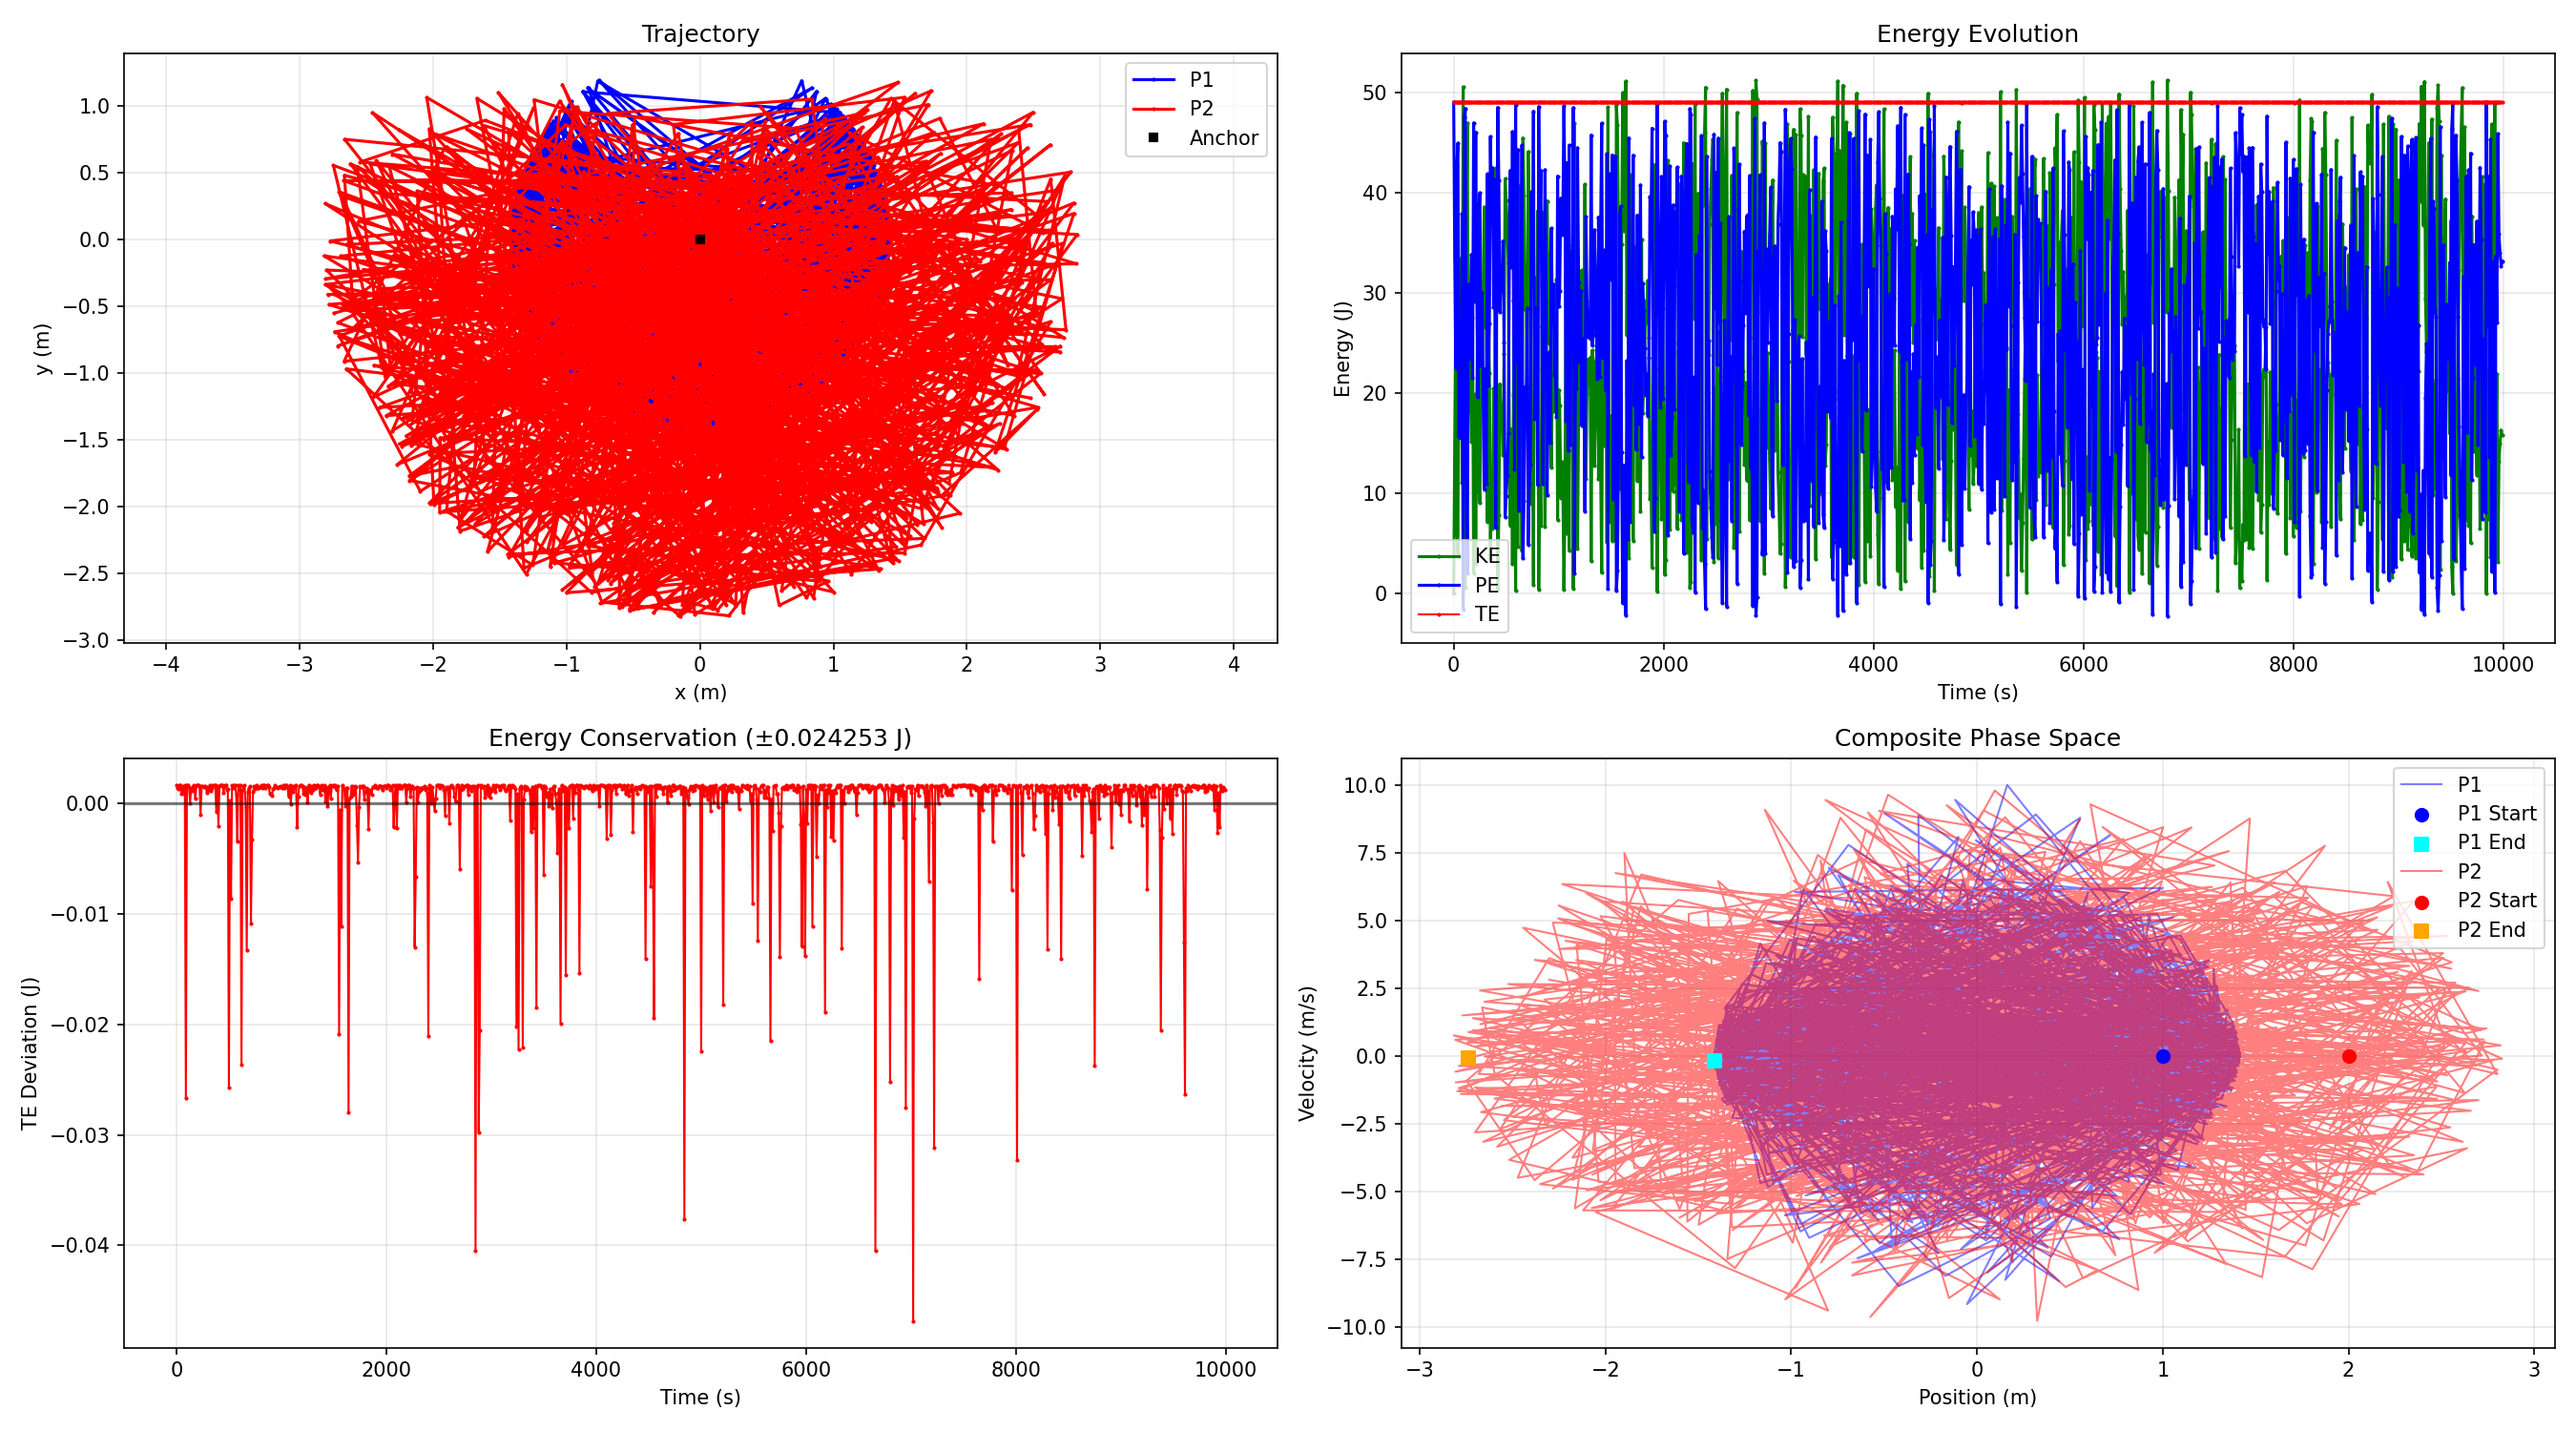
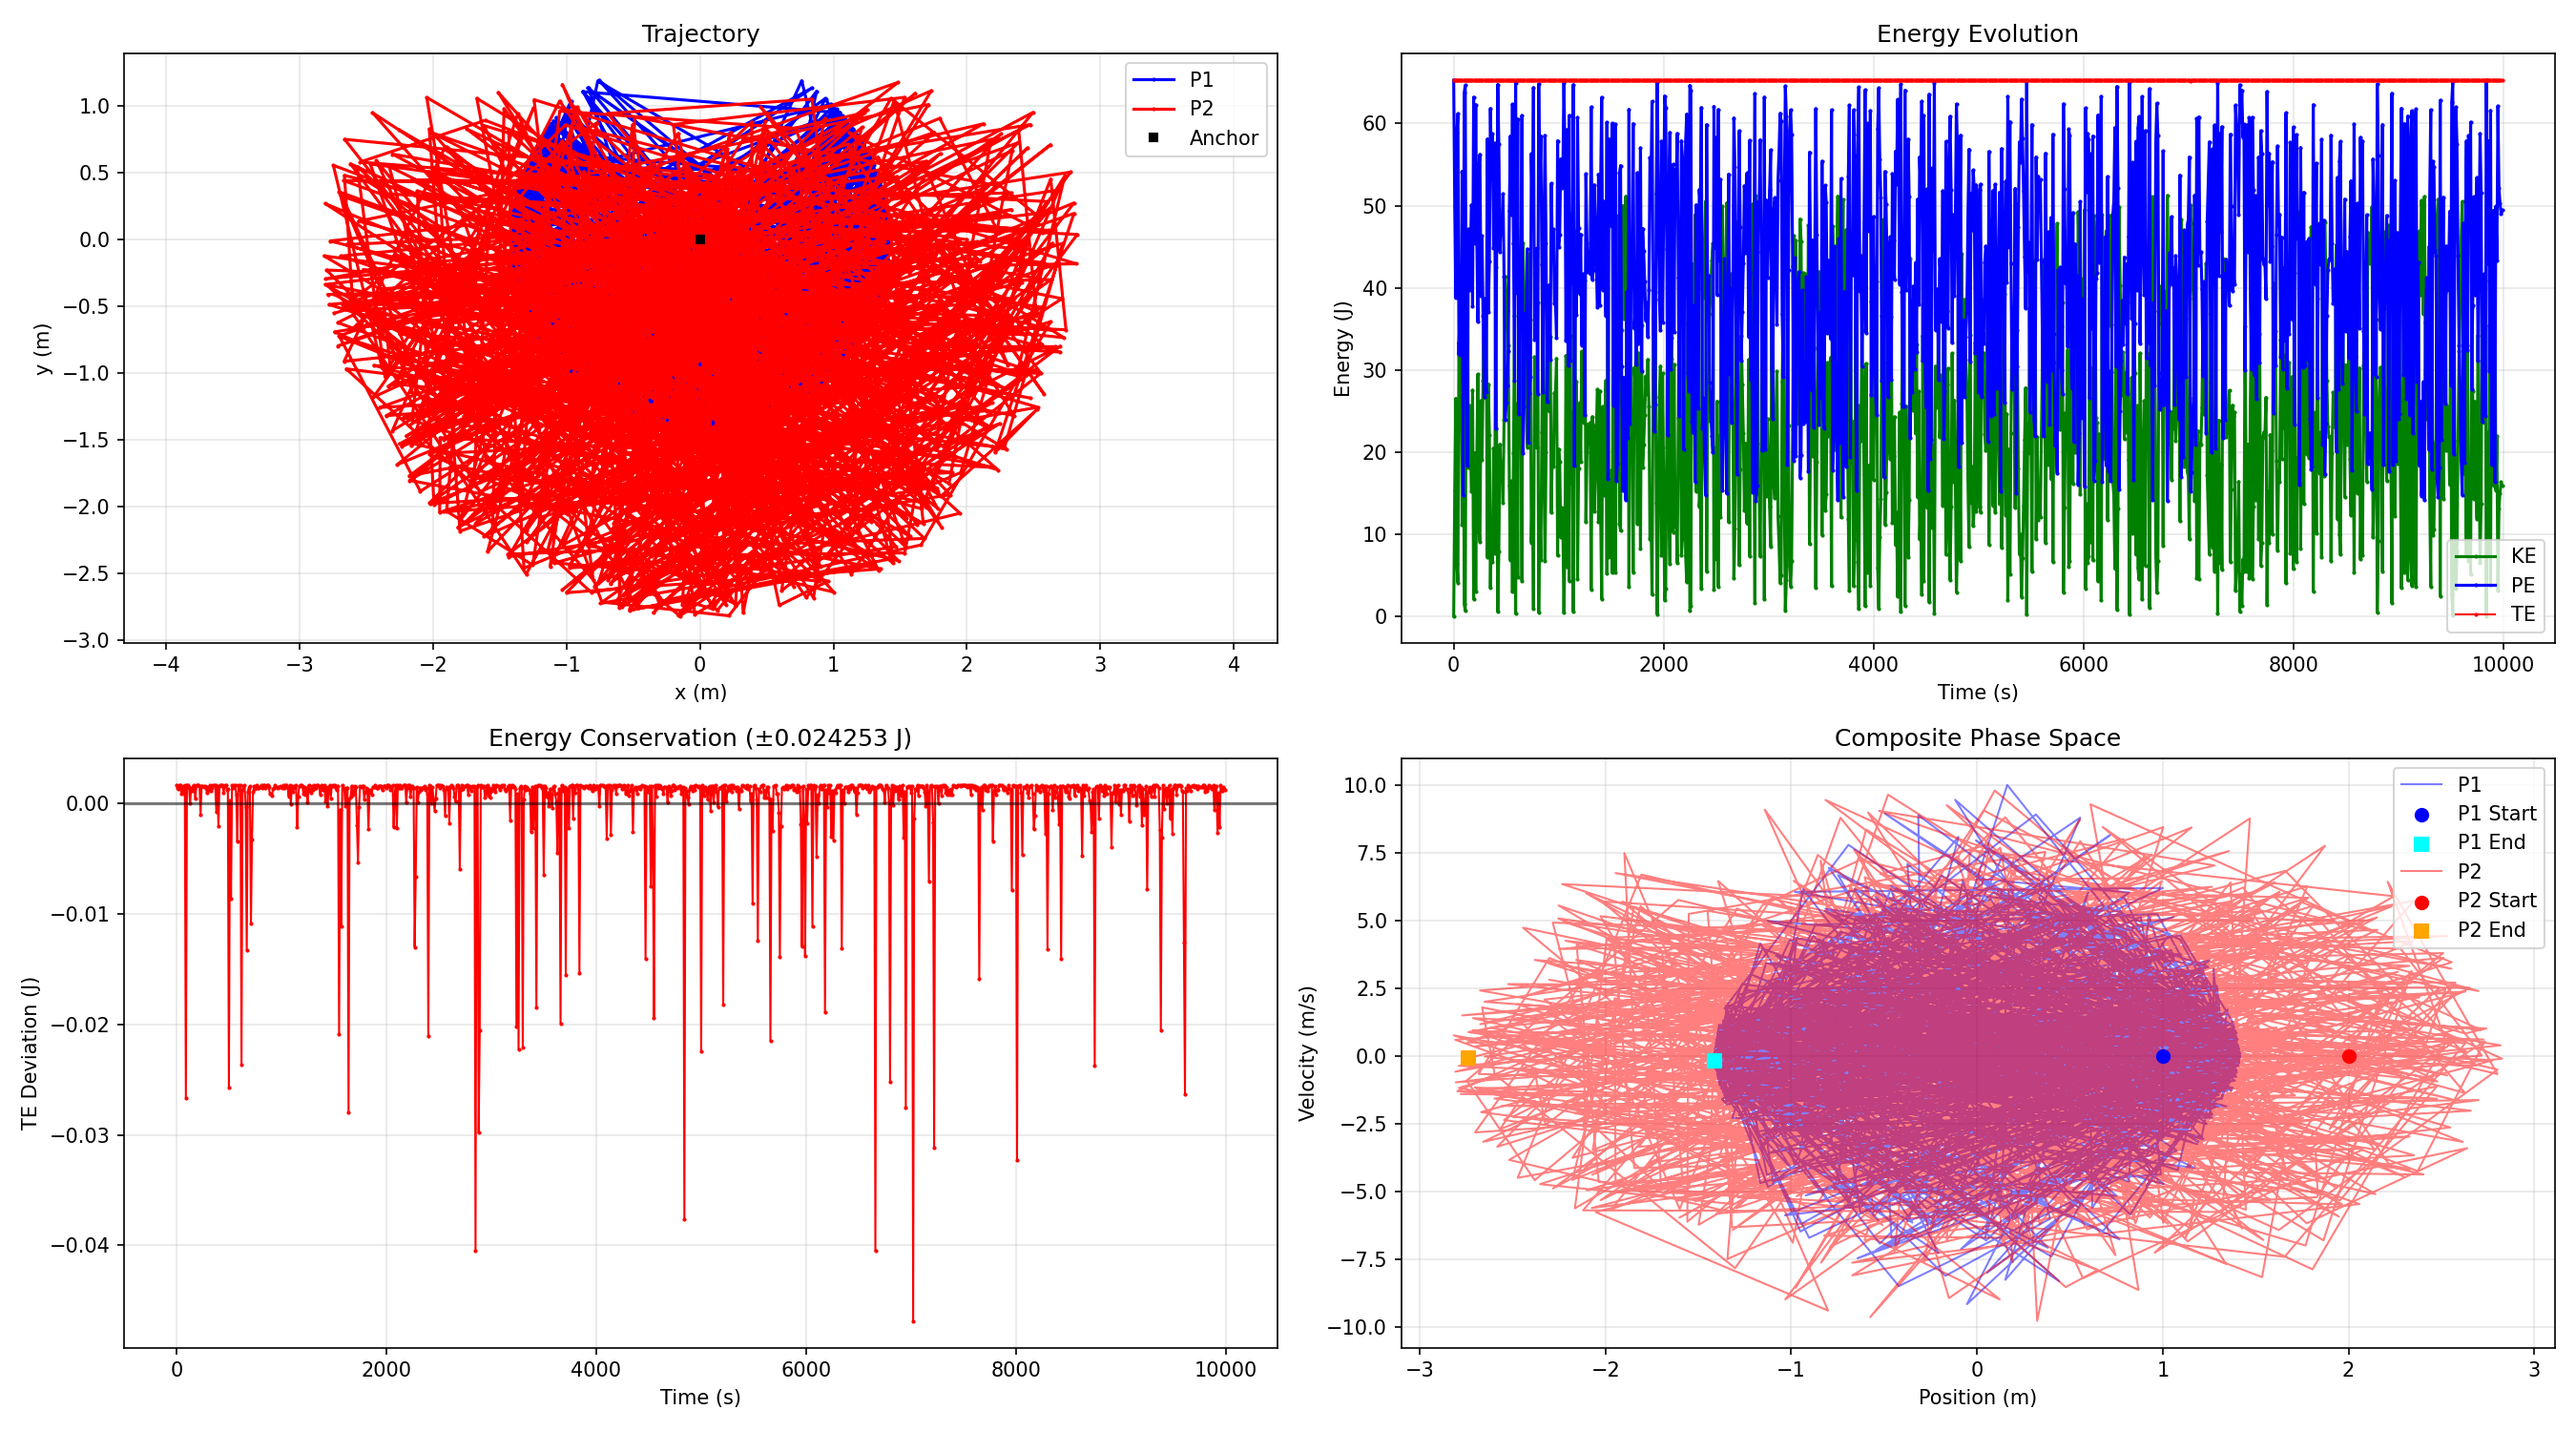
feat(particle): switch integrator to Velocity Verlet and update examples

Changed region(s): [[0.56, 0.0307, 0.9956, 0.4293]]

diff --git a/examples/DoublePendulum.cpp b/examples/DoublePendulum.cpp
@@ -15,30 +15,39 @@ int main() {
     const DistanceConstrainer c2 {p1, p2};
     const DistanceConstrainer c3 {p2, p1};
 
+    p1->SetComputeForcesFunction(
+        [](Particle * p) {
+            p->ApplyForce({0_N, -1_kg * Consts::g, 0_N});
+        }
+    );
+
+    p2->SetComputeForcesFunction(
+        [](Particle *p) {
+            p->ApplyForce({0_N, -1_kg * Consts::g, 0_N});
+        }
+    );
+
     constexpr auto total_time = 10000_s;
     constexpr int steps = static_cast<int>((total_time / DELTA_TIME / 50).value);
 
     for (int i = 0; i < total_time / DELTA_TIME; ++i) {
-        p1->ApplyForce({0_N, -1_kg * Consts::g, 0_N});
-        p2->ApplyForce({0_N, -1_kg * Consts::g, 0_N});
         c1.Correct(DELTA_TIME);
         c2.Correct(DELTA_TIME);
         c3.Correct(DELTA_TIME);
+
         p1->Integrate(DELTA_TIME);
         p2->Integrate(DELTA_TIME);
 
         if (i % steps == 0) {
             // If we record the simulated data every moment, the final analysis will result in image 'DoublePendulumAnalysis.png'
-            const auto t = i * DELTA_TIME;
-
             std::cout << "Time: " << i * DELTA_TIME << "\n"
                       << "  P1 Position:" << p1->GetPosition() << "\n"
                       << "  P1 Velocity: " << p1->GetVelocity() << "\n"
                       << "  P2 Position:" << p2->GetPosition() << "\n"
                       << "  P2 Velocity: " << p2->GetVelocity() << "\n"
                       << "  KE: " <<  p1->GetKineticEnergy() + p2->GetKineticEnergy() << "\n"
-                      << "  PE: " << p1->GetPotentialEnergy(-2_m) + p2->GetPotentialEnergy(-2_m) << "\n"
-                      << "  TE: " << p1->GetTotalEnergy() + p2->GetTotalEnergy() << "\n"
+                      << "  PE: " << p1->GetPotentialEnergy(-2.828_m) + p2->GetPotentialEnergy(-2.828_m) << "\n"
+                      << "  TE: " << p1->GetTotalEnergy(-2.828_m) + p2->GetTotalEnergy(-2.828_m) << "\n"
                       << std::endl;
         }
     }

diff --git a/include/Phyth/Elements/Mechanics/Particle.hpp b/include/Phyth/Elements/Mechanics/Particle.hpp
@@ -1,6 +1,8 @@
 #ifndef PHYTH_PARTICLE_H
 #define PHYTH_PARTICLE_H
 
+#include <functional>
+
 #include "Phyth/Physical/PhysicalConsts.hpp"
 #include "Phyth/Core/Units.hpp"
 #include "Phyth/Tools/Vector3.hpp"
@@ -21,10 +23,16 @@ namespace Phyth::Mechanics {
                 external_force_ = Vector3<Quantity<Newton>>();
                 return;
             }
+            compute_forces_func_(this);
 
-            const auto acc = external_force_ / mass_;
-            position_ = position_ + velocity_ * dt + 0.5 * acc * dt * dt;
-            velocity_ = velocity_ + acc * dt;
+            const auto acc_old = external_force_ / mass_;
+            position_ = position_ + velocity_ * dt + 0.5 * acc_old * dt * dt;
+
+            external_force_ = Vector3<Quantity<Newton>>();
+            compute_forces_func_(this);
+
+            const auto acc_new = external_force_ / mass_;
+            velocity_ = velocity_ + 0.5 * (acc_old + acc_new) * dt;
 
             external_force_ = Vector3<Quantity<Newton>>();
         }
@@ -43,6 +51,8 @@ namespace Phyth::Mechanics {
 
         [[nodiscard]] constexpr const auto &GetExternalForce() const noexcept { return external_force_; }
         void SetExternalForce(const Vector3<Quantity<Newton>> &external_force) noexcept { external_force_ = external_force; }
+
+        void SetComputeForcesFunction(const std::function<void(Particle *)>& func) noexcept { compute_forces_func_ = func; }
 
         [[nodiscard]] Quantity<Joule> GetPotentialEnergy(const Quantity<Meter> y_ref = 0) const {
             return mass_ * Consts::g * (position_.y - y_ref);
@@ -68,6 +78,8 @@ namespace Phyth::Mechanics {
 
         Vector3<Quantity<Newton>> external_force_ {};
         Vector3<Quantity<Meter>> position_;
+
+        std::function<void(Particle *)> compute_forces_func_ = [](Particle *){};
     };
 }
 

diff --git a/examples/SinglePendulum.cpp b/examples/SinglePendulum.cpp
@@ -12,13 +12,14 @@ int main() {
     const auto particle = std::make_shared<Particle>(1_kg, Vector3{1_m, 0_m, 0_m});
     const DistanceConstrainer c1 {anchor_point, particle};
 
+    particle->SetComputeForcesFunction([](Particle *p){p->ApplyForce({0_N, -1_kg * Consts::g, 0_N});});
+
     constexpr auto total_time = 2.73_s;
     constexpr int steps = static_cast<int>((total_time / DELTA_TIME / 20).value);
 
     for (int i = 0; i < total_time / DELTA_TIME; ++i) {
-        particle->ApplyForce({0_N, -1_kg * Consts::g, 0_N});
-        c1.Correct(DELTA_TIME);
         particle->Integrate(DELTA_TIME);
+        c1.Correct(DELTA_TIME);
 
         if (i % steps == 0) {
             // If we record the simulated data every moment, the final analysis will result in image 'SinglePendulumAnalysis.png'
